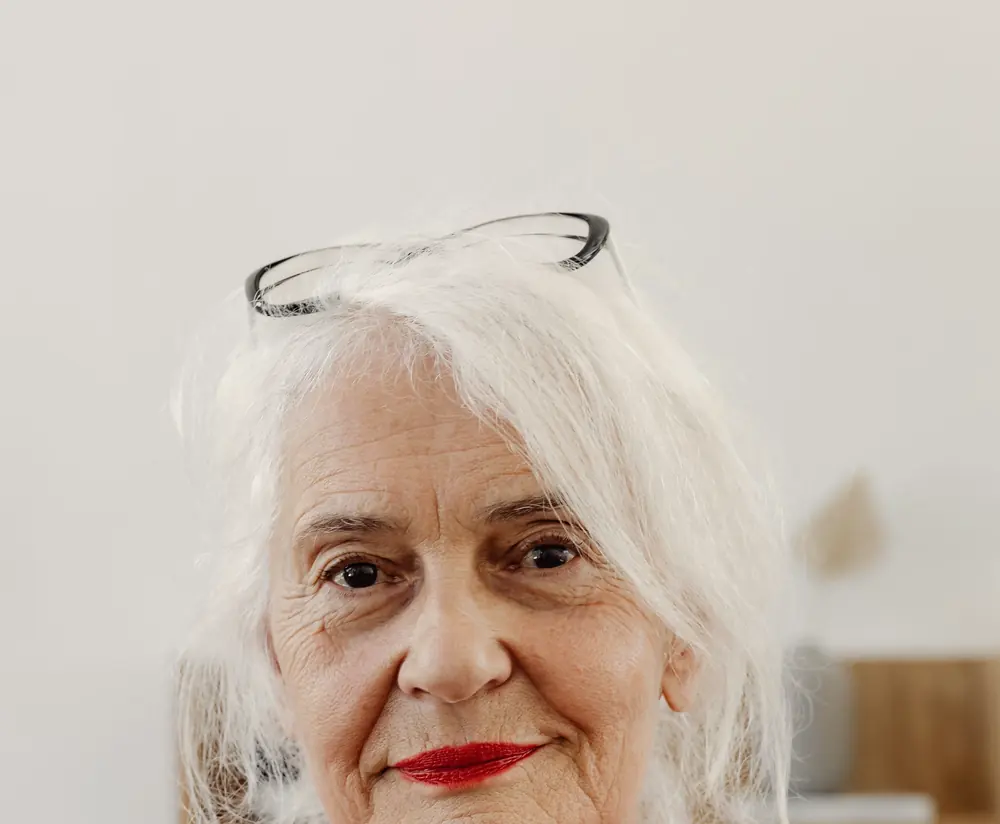
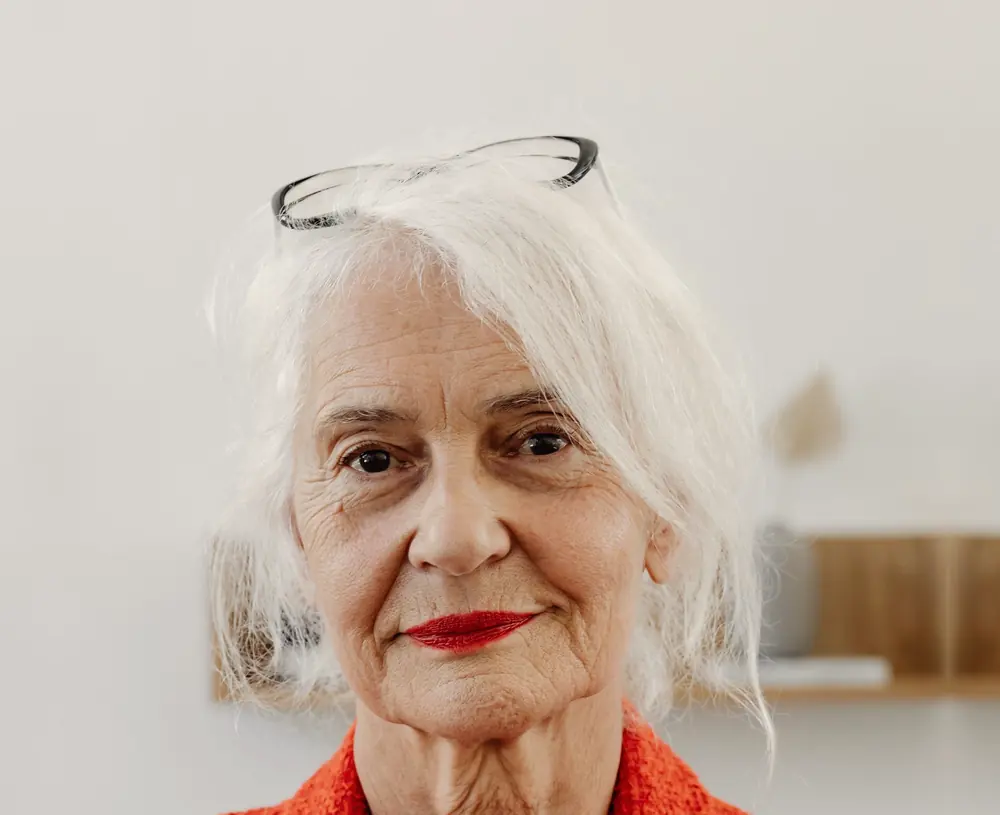
Módulo de tres pasos con iconos y línea de recorrido en las tres propuestas; reencuadre de párpados en cálido

diff --git a/estilo-calido/index.html b/estilo-calido/index.html
@@ -162,6 +162,30 @@ footer nav[aria-label="Páginas"]{gap:0!important}
   html.js:not(.no-anim) [data-reveal="zoom"] img{transform:scale(1.05);transition:transform 1.4s var(--ease) var(--d,0ms)}
   html.js:not(.no-anim) [data-reveal="zoom"].is-in img{transform:none}
 }
+
+/* Proceso: pasos conectados */
+.steps{display:grid;grid-template-columns:repeat(3,minmax(0,1fr));background:#1C3530;border:1px solid #33504A;border-radius:12px;overflow:hidden}
+.step{--pad:36px;padding:40px var(--pad);display:flex;flex-direction:column;gap:14px;position:relative}
+.step .ic{color:#D2B08C;flex:none}
+.step .rail{display:flex;align-items:center;margin:0 calc(var(--pad) * -1)}
+.step .rail::before{content:"";flex:0 0 calc(var(--pad) - 14px);height:2px;border-radius:2px;background:rgba(210,176,140,.5)}
+.step .rail::after{content:"";flex:1;height:2px;border-radius:2px;background:rgba(210,176,140,.5)}
+.step:first-child .rail::before,.step:last-child .rail::after{background:transparent}
+.step .num{margin:0 14px;font-family:'Plus Jakarta Sans',system-ui,sans-serif;font-weight:700;font-size:32px;line-height:1;color:#D2B08C}
+.step p{font-size:15px;line-height:1.7;color:#BFCFC8;margin:0}
+@media (max-width:900px){
+  .steps{grid-template-columns:1fr}
+  .step{--pad:24px;display:grid;grid-template-columns:44px 1fr;column-gap:16px;row-gap:10px;align-items:center;padding:32px var(--pad)}
+  .step .ic{grid-column:2;grid-row:1;justify-self:start}
+  .step .rail{display:block;margin:0;grid-column:1;grid-row:1;justify-self:center}
+  .step .rail::before,.step .rail::after{display:none}
+  .step .num{display:flex;align-items:center;justify-content:center;width:44px;height:44px;margin:0;border:2px solid rgba(210,176,140,.6);border-radius:50%;background:#1C3530;font-size:17px;position:relative;z-index:1}
+  .step h3{grid-column:2;grid-row:2;align-self:start}
+  .step p{grid-column:2;grid-row:3;align-self:start}
+  .step::before{content:"";position:absolute;left:calc(var(--pad) + 21px);width:2px;top:0;bottom:0;background:rgba(210,176,140,.5)}
+  .step:first-child::before{top:54px}
+  .step:last-child::before{bottom:auto;height:54px}
+}
 </style>
 </head>
 <body>
@@ -266,7 +290,7 @@ footer nav[aria-label="Páginas"]{gap:0!important}
             <svg width="18" height="18" viewBox="0 0 24 24" fill="none" aria-hidden="true"><path d="M5 12h14M13 6l6 6-6 6" stroke="#24413A" stroke-width="2" stroke-linecap="round" stroke-linejoin="round"/></svg>
           </a>
         </div>
-        <div data-reveal class="ph-box" style="flex: 1 1 440px; min-width: 0; height: 440px; border-radius: 6px; background: #D5DDD7; overflow: hidden;"><img class="photo" src="../img/p1-parpados-1000.webp" srcset="../img/p1-parpados-560.webp 560w, ../img/p1-parpados-1000.webp 1000w" sizes="(min-width: 1240px) 540px, 100vw" width="1000" height="824" alt="Foto de muestra: retrato de la mirada de una mujer de pelo blanco" loading="lazy" decoding="async" style="object-position: center 35%;"></div>
+        <div data-reveal class="ph-box" style="flex: 1 1 440px; min-width: 0; height: 440px; border-radius: 6px; background: #D5DDD7; overflow: hidden;"><img class="photo" src="../img/p1-parpados-1000.webp" srcset="../img/p1-parpados-560.webp 560w, ../img/p1-parpados-1000.webp 1000w" sizes="(min-width: 1240px) 540px, 100vw" width="1000" height="815" alt="Foto de muestra: retrato de la mirada de una mujer de pelo blanco" loading="lazy" decoding="async" style="object-position: center 25%;"></div>
       </div>
     </div>
   </section>
@@ -281,23 +305,8 @@ footer nav[aria-label="Páginas"]{gap:0!important}
         </div>
         <p style="font-size: 17px; line-height: 1.7; color: #BFCFC8; max-width: 420px;">Cada cirugía se planifica de forma individual y se realiza en Clínica Oftalmológica Sant Cugat, con todas las garantías.</p>
       </div>
-      <div data-stagger style="display: grid; grid-template-columns: repeat(auto-fit, minmax(260px, 1fr)); gap: 1px; background: #33504A; border: 1px solid #33504A; border-radius: 12px; overflow: hidden;">
-        <div style="background: #1C3530; padding: 40px 36px; display: flex; flex-direction: column; gap: 14px;">
-          <span style="font-family: 'Plus Jakarta Sans', system-ui, sans-serif; font-weight: 700; font-size: 32px; color: #D2B08C; line-height: 1;">I</span>
-          <h3 style="color: #FFFFFF;">Diagnóstico preciso</h3>
-          <p style="font-size: 15px; line-height: 1.7; color: #BFCFC8;">Pruebas completas antes de indicar cualquier cirugía.</p>
-        </div>
-        <div style="background: #1C3530; padding: 40px 36px; display: flex; flex-direction: column; gap: 14px;">
-          <span style="font-family: 'Plus Jakarta Sans', system-ui, sans-serif; font-weight: 700; font-size: 32px; color: #D2B08C; line-height: 1;">II</span>
-          <h3 style="color: #FFFFFF;">Información clara</h3>
-          <p style="font-size: 15px; line-height: 1.7; color: #BFCFC8;">Te explico la técnica, los resultados esperables y los riesgos antes de decidir.</p>
-        </div>
-        <div style="background: #1C3530; padding: 40px 36px; display: flex; flex-direction: column; gap: 14px;">
-          <span style="font-family: 'Plus Jakarta Sans', system-ui, sans-serif; font-weight: 700; font-size: 32px; color: #D2B08C; line-height: 1;">III</span>
-          <h3 style="color: #FFFFFF;">Seguimiento personal</h3>
-          <p style="font-size: 15px; line-height: 1.7; color: #BFCFC8;">Las revisiones después de la cirugía las hago yo misma.</p>
-        </div>
-      </div>
+      <ol class="steps" data-stagger aria-label="Pasos del proceso" style="list-style:none;margin:0;padding:0"><div class="step"><svg class="ic" width="34" height="34" viewBox="0 0 24 24" fill="none" stroke="currentColor" stroke-width="1.8" stroke-linecap="round" stroke-linejoin="round" aria-hidden="true"><circle cx="10.5" cy="10.5" r="6"/><path d="m15 15 5.5 5.5"/></svg><div class="rail"><span class="num">I</span></div><h3 style="color: #FFFFFF;">Diagnóstico preciso</h3><p>Pruebas completas antes de indicar cualquier cirugía.</p></div><div class="step"><svg class="ic" width="34" height="34" viewBox="0 0 24 24" fill="none" stroke="currentColor" stroke-width="1.8" stroke-linecap="round" stroke-linejoin="round" aria-hidden="true"><path d="M7 3h7l4 4v14H7z"/><path d="M14 3v4h4M10 12h5M10 16h5"/></svg><div class="rail"><span class="num">II</span></div><h3 style="color: #FFFFFF;">Información clara</h3><p>Te explico la técnica, los resultados esperables y los riesgos antes de decidir.</p></div><div class="step"><svg class="ic" width="34" height="34" viewBox="0 0 24 24" fill="none" stroke="currentColor" stroke-width="1.8" stroke-linecap="round" stroke-linejoin="round" aria-hidden="true"><rect x="4" y="5" width="16" height="15" rx="2"/><path d="M4 10h16M8 3v4M16 3v4M9 15l2 2 4-4"/></svg><div class="rail"><span class="num">III</span></div><h3 style="color: #FFFFFF;">Seguimiento personal</h3><p>Las revisiones después de la cirugía las hago yo misma.</p></div></ol>
+      <div data-reveal><a class="cta btn1" href="#cita" style="display: inline-flex; align-items: center; gap: 8px; background: #FAF6F0; color: #24413A; text-decoration: none; padding: 13px 24px; border-radius: 6px; font-weight: 600; min-height: 48px; box-sizing: border-box;">Pedir cita</a></div>
     </div>
   </section>
 

diff --git a/estilo-clasico/index.html b/estilo-clasico/index.html
@@ -243,6 +243,29 @@ footer a{color:#C3D2E3}
   html.js:not(.no-anim) [data-reveal="zoom"] img{transform:scale(1.05);transition:transform 1.2s var(--ease) var(--d,0ms)}
   html.js:not(.no-anim) [data-reveal="zoom"].is-in img{transform:none}
 }
+
+/* Proceso: pasos conectados */
+.why .step .icon{width:48px;height:48px;border-radius:2px;background:transparent;border:1px solid #6F94BF;color:#FFFFFF}
+.step .rail{display:flex;align-items:center}
+.step .num{font-weight:700;font-size:18px;letter-spacing:.12em;color:#9EC3E8;font-variant-numeric:tabular-nums;margin-right:14px}
+.step .rail::after{content:"";flex:1;height:1px;background:#6F94BF;margin-right:-18px}
+.step:last-child .rail::after{background:transparent}
+.why-cta{margin-top:48px}
+@media (max-width:960px){
+  .why-grid{gap:0}
+  .why .step{display:grid;grid-template-columns:44px 1fr;column-gap:20px;row-gap:8px;align-items:center;position:relative;padding:0 0 36px}
+  .why .step:last-child{padding-bottom:0}
+  .why .step .icon{grid-column:2;grid-row:1;justify-self:start}
+  .step .rail{display:block;grid-column:1;grid-row:1;justify-self:center}
+  .step .rail::after{display:none}
+  .step .num{display:flex;align-items:center;justify-content:center;width:44px;height:44px;margin:0;border:1px solid #6F94BF;border-radius:2px;background:var(--navy);font-size:16px;letter-spacing:.04em;position:relative;z-index:1}
+  .why .step h3{grid-column:2;grid-row:2;align-self:start}
+  .why .step p{grid-column:2;grid-row:3;align-self:start}
+  .why .step::before{content:"";position:absolute;left:21px;width:1px;top:0;bottom:0;background:#6F94BF}
+  .why .step:first-child::before{top:24px}
+  .why .step:last-child::before{bottom:auto;height:24px}
+  .why-cta .btn{width:100%}
+}
 </style>
 </head>
 <body>
@@ -331,11 +354,8 @@ footer a{color:#C3D2E3}
         <span class="kicker">Por qué confiar</span>
         <h2 id="por-que">Su vista, en buenas manos</h2>
       </div>
-      <div data-stagger class="why-grid">
-        <div class="why-item"><span class="icon" aria-hidden="true"><svg width="26" height="26" viewBox="0 0 24 24" fill="none"><path d="M2.5 12c2.2-4 5.4-6 9.5-6s7.3 2 9.5 6c-2.2 4-5.4 6-9.5 6s-7.3-2-9.5-6Z" stroke="#FFFFFF" stroke-width="1.7"/><circle cx="12" cy="12" r="3" stroke="#FFFFFF" stroke-width="1.7"/></svg></span><h3>Diagnóstico completo</h3><p>Pruebas necesarias antes de indicar cualquier tratamiento o cirugía.</p></div>
-        <div class="why-item"><span class="icon" aria-hidden="true"><svg width="26" height="26" viewBox="0 0 24 24" fill="none"><path d="M5 6.5h14M5 12h14M5 17.5h9" stroke="#FFFFFF" stroke-width="1.7" stroke-linecap="round"/></svg></span><h3>Información clara</h3><p>Le explico la técnica, los resultados y los riesgos, sin prisas y con palabras sencillas.</p></div>
-        <div class="why-item"><span class="icon" aria-hidden="true"><svg width="26" height="26" viewBox="0 0 24 24" fill="none"><circle cx="12" cy="8.5" r="3.5" stroke="#FFFFFF" stroke-width="1.7"/><path d="M5 20c1.2-3.5 3.8-5.5 7-5.5s5.8 2 7 5.5" stroke="#FFFFFF" stroke-width="1.7" stroke-linecap="round"/></svg></span><h3>Seguimiento personal</h3><p>Le atiendo yo misma en las revisiones hasta su recuperación completa.</p></div>
-      </div>
+      <div data-stagger class="why-grid" role="list"><div class="why-item step"><span class="icon"><svg class="ic" width="34" height="34" viewBox="0 0 24 24" fill="none" stroke="currentColor" stroke-width="1.5" stroke-linecap="butt" stroke-linejoin="miter" aria-hidden="true"><circle cx="10.5" cy="10.5" r="6"/><path d="m15 15 5.5 5.5"/></svg></span><div class="rail"><span class="num">01</span></div><h3>Diagnóstico completo</h3><p>Pruebas necesarias antes de indicar cualquier tratamiento o cirugía.</p></div><div class="why-item step"><span class="icon"><svg class="ic" width="34" height="34" viewBox="0 0 24 24" fill="none" stroke="currentColor" stroke-width="1.5" stroke-linecap="butt" stroke-linejoin="miter" aria-hidden="true"><path d="M7 3h7l4 4v14H7z"/><path d="M14 3v4h4M10 12h5M10 16h5"/></svg></span><div class="rail"><span class="num">02</span></div><h3>Información clara</h3><p>Le explico la técnica, los resultados y los riesgos, sin prisas y con palabras sencillas.</p></div><div class="why-item step"><span class="icon"><svg class="ic" width="34" height="34" viewBox="0 0 24 24" fill="none" stroke="currentColor" stroke-width="1.5" stroke-linecap="butt" stroke-linejoin="miter" aria-hidden="true"><rect x="4" y="5" width="16" height="15" rx="0"/><path d="M4 10h16M8 3v4M16 3v4M9 15l2 2 4-4"/></svg></span><div class="rail"><span class="num">03</span></div><h3>Seguimiento personal</h3><p>Le atiendo yo misma en las revisiones hasta su recuperación completa.</p></div></div>
+      <div data-reveal class="why-cta"><a class="btn" href="#cita">Pedir cita</a></div>
     </div>
   </section>
 

diff --git a/estilo-elegante/index.html b/estilo-elegante/index.html
@@ -242,6 +242,32 @@ footer nav a{color:var(--muted)}
   html.js:not(.no-anim) [data-line]::before{transform:scaleX(0);transform-origin:left center;transition:transform .9s var(--ease) calc(var(--d,0ms) + 150ms)}
   html.js:not(.no-anim) [data-line].is-in::before{transform:none}
 }
+
+/* Proceso: pasos conectados */
+.steps{display:grid;grid-template-columns:repeat(3,minmax(0,1fr));background:var(--bg2);border:1px solid var(--line);margin-top:64px}
+.step{--pad:40px;padding:48px var(--pad);display:flex;flex-direction:column;gap:14px;position:relative}
+.step .ic{color:var(--gold);flex:none}
+.step .rail{display:flex;align-items:center;margin:0 calc(var(--pad) * -1)}
+.step .rail::before{content:"";flex:0 0 calc(var(--pad) - 16px);height:1px;background:rgba(212,188,148,.55)}
+.step .rail::after{content:"";flex:1;height:1px;background:rgba(212,188,148,.55)}
+.step:first-child .rail::before,.step:last-child .rail::after{background:transparent}
+.step .roman{margin:0 16px}
+.step p{color:var(--muted);font-size:17px;margin:0}
+.steps-cta{margin-top:56px}
+@media (max-width:900px){
+  .steps{grid-template-columns:1fr;margin-top:48px}
+  .step{--pad:28px;display:grid;grid-template-columns:44px 1fr;column-gap:20px;row-gap:10px;align-items:center;padding:36px var(--pad)}
+  .step .ic{grid-column:2;grid-row:1;justify-self:start}
+  .step .rail{display:block;margin:0;grid-column:1;grid-row:1;justify-self:center}
+  .step .rail::before,.step .rail::after{display:none}
+  .step .roman{display:flex;align-items:center;justify-content:center;width:44px;height:44px;margin:0;border:1px solid rgba(212,188,148,.6);border-radius:50%;background:var(--bg2);font-size:17px;position:relative;z-index:1}
+  .step h3{grid-column:2;grid-row:2;align-self:start}
+  .step p{grid-column:2;grid-row:3;align-self:start}
+  .step::before{content:"";position:absolute;left:calc(var(--pad) + 21px);width:1px;top:0;bottom:0;background:rgba(212,188,148,.5)}
+  .step:first-child::before{top:58px}
+  .step:last-child::before{bottom:auto;height:58px}
+  .steps-cta .btn{width:100%}
+}
 </style>
 </head>
 <body>
@@ -320,11 +346,8 @@ footer nav a{color:var(--muted)}
     <div class="wrap">
       <span class="eyebrow" data-reveal data-line>Mi enfoque</span>
       <h2 data-reveal="1" style="margin-top:22px;max-width:760px">Rigor médico, <em>atención a medida</em></h2>
-      <div data-stagger class="grid3">
-        <div><span class="roman">I</span><h3>Diagnóstico preciso</h3><p>Pruebas completas antes de indicar cualquier intervención.</p></div>
-        <div><span class="roman">II</span><h3>Decisión informada</h3><p>Te explico técnica, resultados esperables y riesgos con total transparencia.</p></div>
-        <div><span class="roman">III</span><h3>Seguimiento personal</h3><p>Te acompaño en cada revisión hasta tu recuperación completa.</p></div>
-      </div>
+      <div data-stagger class="steps" role="list"><div class="step"><svg class="ic" width="34" height="34" viewBox="0 0 24 24" fill="none" stroke="currentColor" stroke-width="1" stroke-linecap="butt" stroke-linejoin="miter" aria-hidden="true"><circle cx="10.5" cy="10.5" r="6"/><path d="m15 15 5.5 5.5"/></svg><div class="rail"><span class="roman">I</span></div><h3>Diagnóstico preciso</h3><p>Pruebas completas antes de indicar cualquier intervención.</p></div><div class="step"><svg class="ic" width="34" height="34" viewBox="0 0 24 24" fill="none" stroke="currentColor" stroke-width="1" stroke-linecap="butt" stroke-linejoin="miter" aria-hidden="true"><path d="M7 3h7l4 4v14H7z"/><path d="M14 3v4h4M10 12h5M10 16h5"/></svg><div class="rail"><span class="roman">II</span></div><h3>Decisión informada</h3><p>Te explico técnica, resultados esperables y riesgos con total transparencia.</p></div><div class="step"><svg class="ic" width="34" height="34" viewBox="0 0 24 24" fill="none" stroke="currentColor" stroke-width="1" stroke-linecap="butt" stroke-linejoin="miter" aria-hidden="true"><rect x="4" y="5" width="16" height="15" rx="0"/><path d="M4 10h16M8 3v4M16 3v4M9 15l2 2 4-4"/></svg><div class="rail"><span class="roman">III</span></div><h3>Seguimiento personal</h3><p>Te acompaño en cada revisión hasta tu recuperación completa.</p></div></div>
+      <div data-reveal class="steps-cta"><a class="btn" href="#cita">Pedir cita</a></div>
     </div>
   </section>
 
